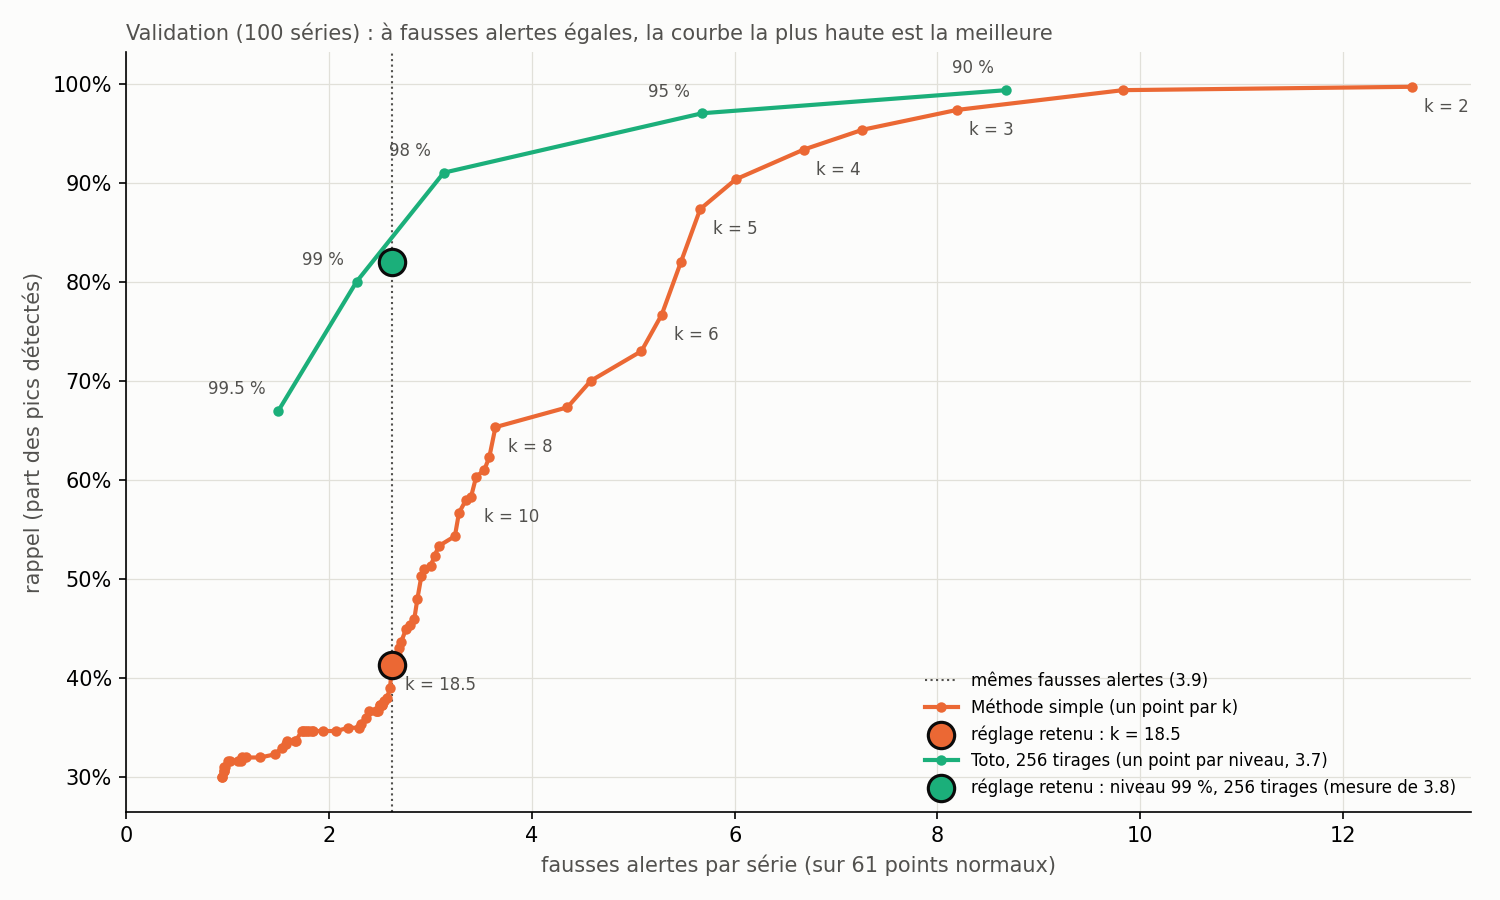
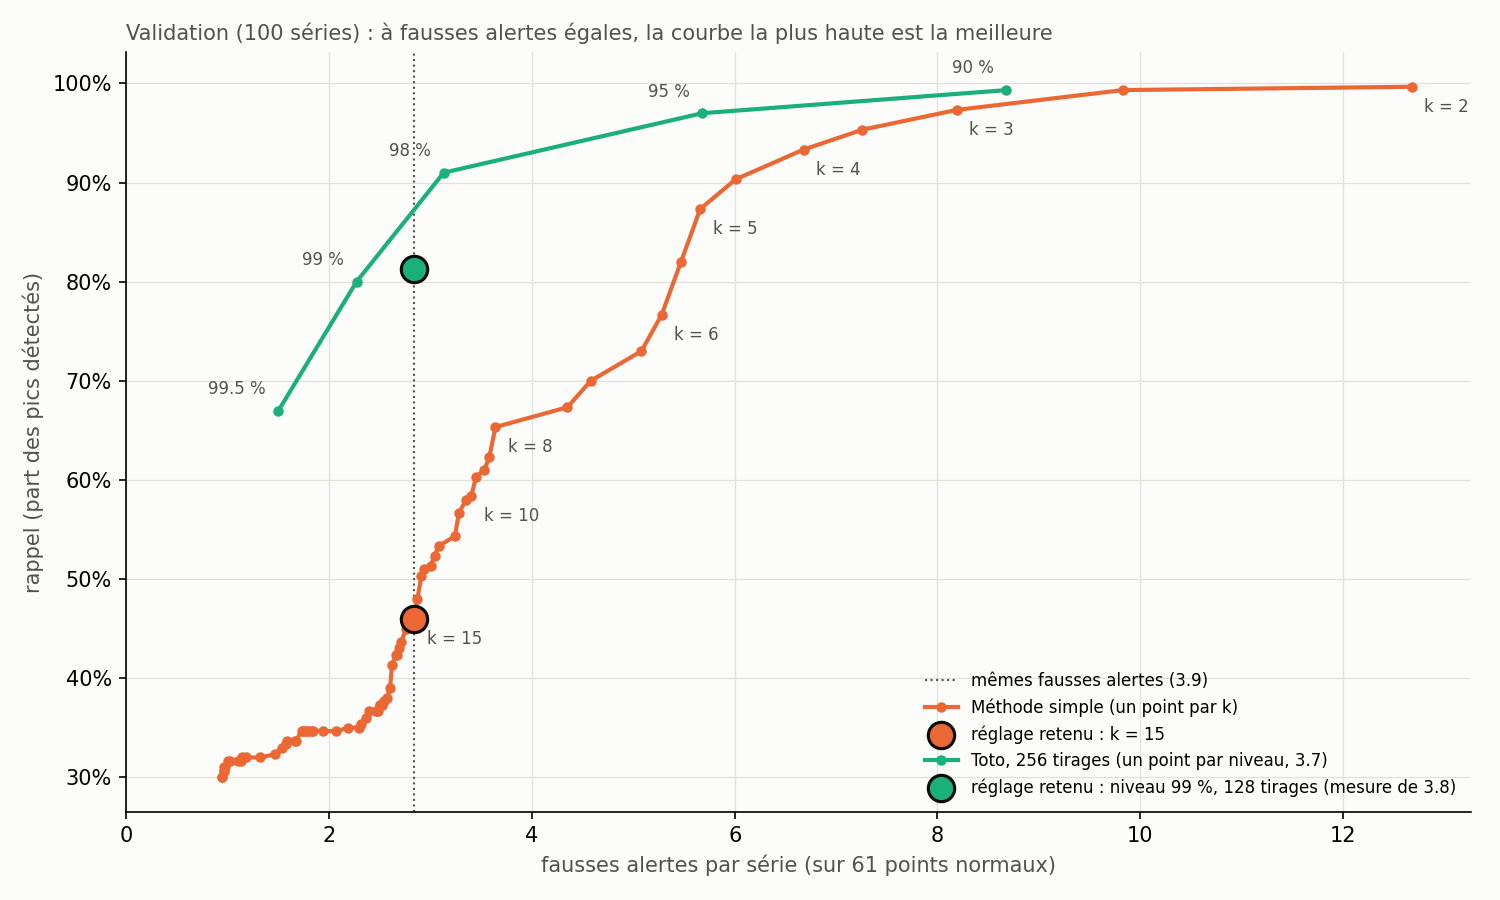
Étape 3.8 : 128 tirages retenus (tolérance de F1 de 0,02)
La tolérance de F1 passe de 0,01 à 0,02, le niveau du bruit des tirages
(le même réglage donne un F1 de 0,626 en 3.7 et 0,609 en 3.8). 128 tirages
(F1 0,589, 1,1 s / série) sont retenus à la place de 256 (F1 0,609,
2,3 s / série) : deux fois moins cher pour un écart de F1 dans le bruit.

Conséquences, recalculées :
- 3.9 : cible 2,84 fausses alertes / série -> k = 15 (rappel 46,0 %)
- 3.10, test : méthode simple k = 15 : rappel 51,3 %, F1 0,460,
  2,15 FA / série ; Toto (99 %, 128 tirages) : rappel 82,0 %, F1 0,550,
  3,48 FA / série, 1087 ms / série
- 3.11 : figure mise à jour

Changed region(s): [[0.2453, 0.6533, 0.3067, 0.7778], [0.2453, 0.28, 0.3067, 0.3111]]

diff --git a/src/tuning.py b/src/tuning.py
@@ -20,7 +20,9 @@ SPLIT_SEED = 0  # seed du tirage validation / test
 K_GRID = [2, 3, 4, 5, 6, 8, 10]  # 3.6 : valeurs de k de la méthode simple
 LEVELS = [0.90, 0.95, 0.98, 0.99, 0.995]  # 3.7 : niveaux d'intervalle de Toto
 SAMPLES_GRID = [32, 64, 128, 256]  # 3.8 : nombres de tirages de Toto
-F1_TOLERANCE = 0.01  # 3.8 : perte de F1 acceptée pour prendre moins de tirages
+# 3.8 : perte de F1 acceptée pour prendre moins de tirages. Fixée au niveau du bruit des tirages :
+# le même réglage (99 %, 256 tirages) donne un F1 de 0,626 en 3.7 et 0,609 en 3.8.
+F1_TOLERANCE = 0.02
 FA_CLOSE = 0.10  # 3.9 : écart relatif max pour dire que deux taux de fausses alertes sont proches
 # 3.9 : grille fine, pas de 0,5. Elle va au-delà de k = 10 car la méthode simple y garde
 # encore plus de fausses alertes que Toto réglé (3,4 contre 2,6 par série sur la validation).
